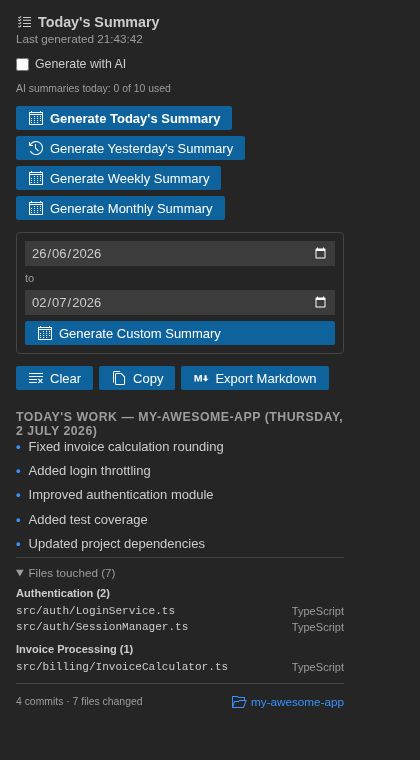
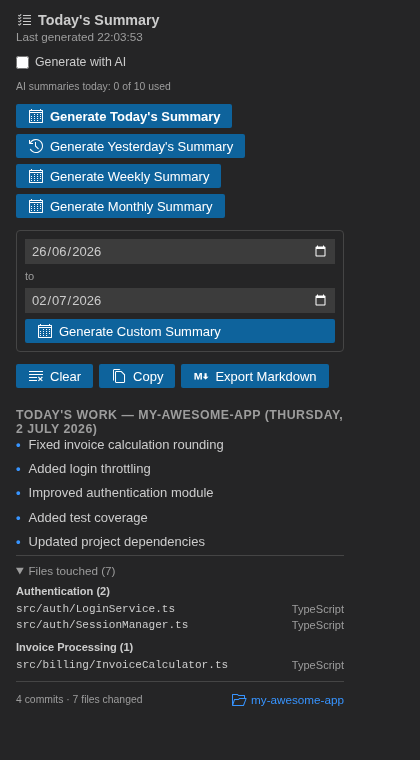
Fix sidebar padding and update summary screenshot
#app had no horizontal padding, so buttons/content sat flush against
the panel edges. Re-rendered the summary-panel screenshot to match.

diff --git a/CHANGELOG.md b/CHANGELOG.md
@@ -34,3 +34,8 @@ and this project adheres to [Semantic Versioning](https://semver.org/spec/v2.0.0
 - New `Toggle AI Mode` command (Command Palette equivalent of the checkbox).
 - Renamed the extension from "Daily Work Summary -- Git" to **"Git Work Summary"** (`daily-work-summary-git` → `git-work-summary`, and every command id, setting key, view id, and stored state key updated to match). Added author contact info (`[email redacted]`) to the manifest.
 - Rewrote the README as a concise, user-facing guide (brief, use cases, setup, usage) with real screenshots of the panel and Activity Bar; moved the deeper technical write-up out of the default read path.
+
+### Fixed
+
+- Panel content (buttons, date inputs, bullets, footer) was flush against the left/right edges of the sidebar with no gutter — `#app` now has proper horizontal padding.
+- README screenshots rendered as broken images in the Extension Details view because `package.json`'s `repository` field pointed at a placeholder GitHub URL that didn't exist; `vsce` rewrites relative README image paths to that repo's raw-content URL at package time, so a dead repo meant dead images. Now points at the real repository (`github.com/MahirPatel/git-work-summary`).